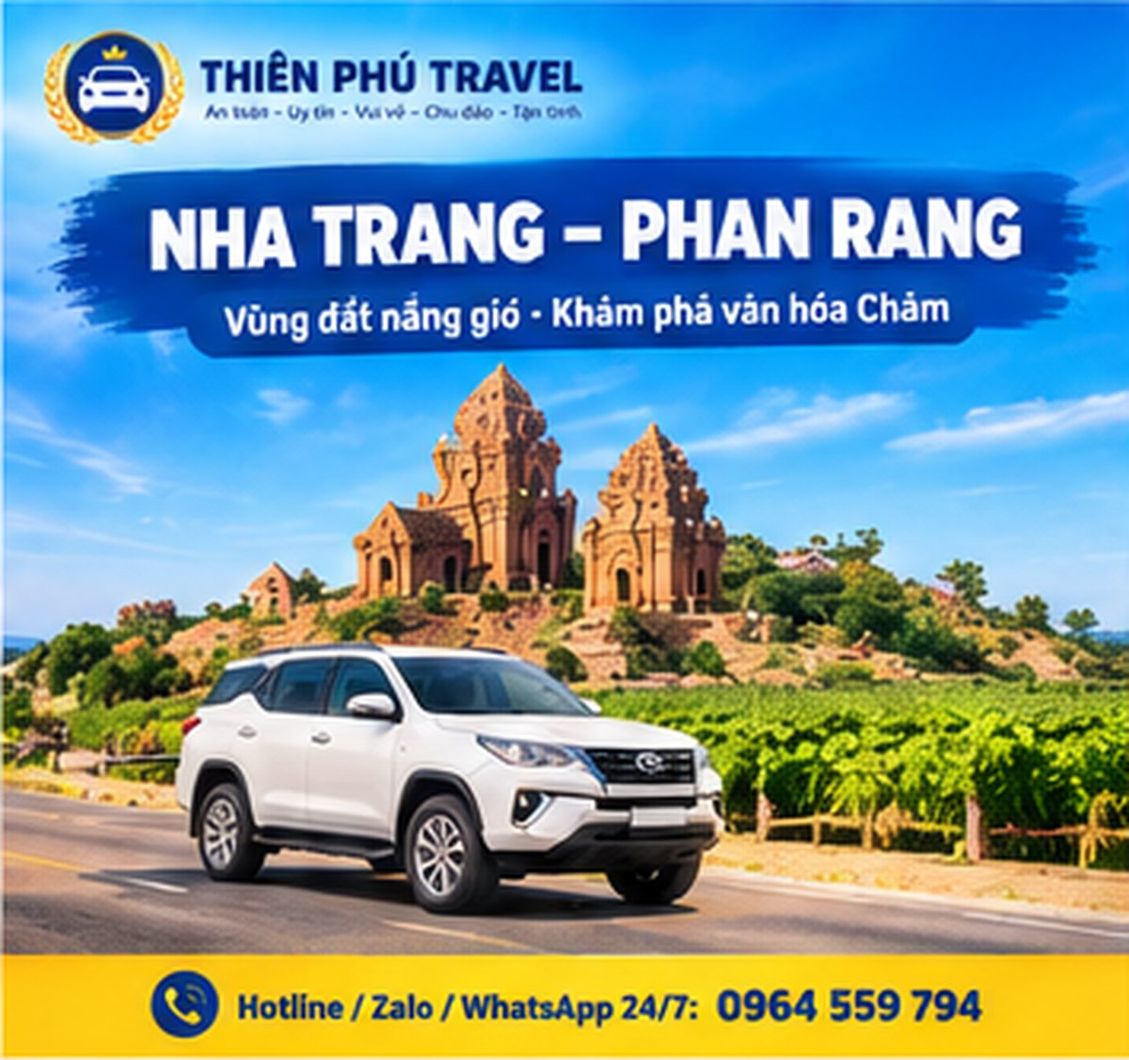
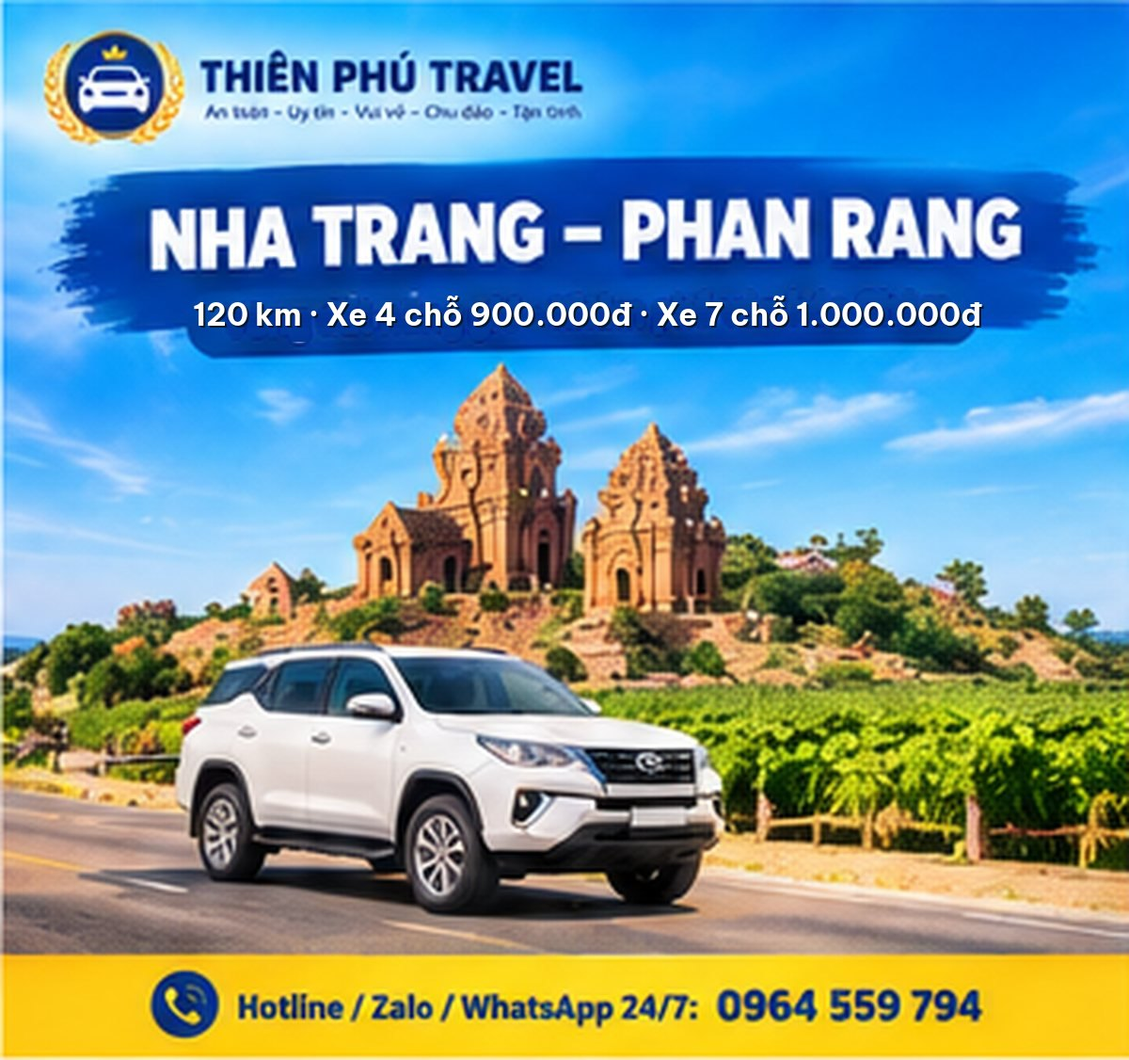
feat: bảng giá mới 10 tuyến, thêm Cam Ranh và Ninh Hòa
Giá theo bảng khách gửi 16/11: Đà Lạt 1.000.000/1.100.000, Phan Rang 900.000/1.000.000,
Tuy Hòa 1.100.000/1.200.000, Phan Thiết 1.500.000/1.600.000, Quy Nhơn 1.700.000/1.800.000,
Vũng Tàu 2.500.000/2.600.000, Sài Gòn 2.600.000/2.700.000; thêm Cam Ranh và Ninh Hòa 450.000/500.000.
Sửa dòng giá in sẵn trên 4 poster (sua-gia-anh.py), ghép 2 poster mới từ nền có sẵn (ghep-tuyen-moi.py),
cập nhật mô tả meta, tài liệu fanpage và prompt ảnh.

Changed region(s): [[0.1542, 0.2798, 0.8942, 0.3419]]

diff --git a/js/content.js b/js/content.js
@@ -46,21 +46,25 @@ window.TP_CONTENT = {
 
   /* Tuyến đường & giá trọn xe (VND). km: quãng đường, img: ảnh minh họa điểm đến. */
   routes: [
-    { id: "nt-dl",  to: "Đà Lạt",            km: "140-150 km", hours: "≈ 3,5 giờ", price: { 4: 900000,  7: 1000000 }, photo: "img/dest-dalat.jpg", img: "img/dest-dalat.svg",     featured: true,
+    { id: "nt-dl",  to: "Đà Lạt",            km: "140-150 km", hours: "≈ 3,5 giờ", price: { 4: 1000000, 7: 1100000 }, photo: "img/dest-dalat.jpg", img: "img/dest-dalat.svg",     featured: true,
       note: "Đường đèo Khánh Lê, tài xế quen tay. Lên tới nơi còn kịp cà phê chiều." },
     { id: "nt-cxr", to: "Sân bay Cam Ranh",  km: "35 km",        hours: "≈ 45 phút", price: { 4: 300000,  7: 350000 },  photo: "img/dest-camranh.jpg", img: "img/dest-camranh.svg",   featured: true,
       note: "Đón trả tận cổng, canh giờ bay. Máy bay trễ vẫn chờ." },
-    { id: "nt-pr",  to: "Phan Rang",         km: "110-130 km", hours: "≈ 2,5 giờ", price: { 4: 850000,  7: 950000 },  photo: "img/dest-phanrang.jpg", img: "img/dest-phanrang.svg",
+    { id: "nt-cr",  to: "Cam Ranh",          km: "55-60 km",   hours: "≈ 1 giờ 15", price: { 4: 450000,  7: 500000 },  photo: "img/dest-camranh-tp.jpg", img: "img/dest-camranh.svg",
+      note: "Bãi Dài, Bình Ba, cảng Cam Ranh và các resort dọc đường ven biển." },
+    { id: "nt-nh",  to: "Ninh Hòa",          km: "30-35 km",   hours: "≈ 45 phút", price: { 4: 450000,  7: 500000 },  photo: "img/dest-ninhhoa.jpg", img: "img/dest-tuyhoa.svg",
+      note: "Dốc Lết, Ninh Vân, suối nước nóng Trường Xuân, nem Ninh Hòa." },
+    { id: "nt-pr",  to: "Phan Rang",         km: "110-130 km", hours: "≈ 2,5 giờ", price: { 4: 900000,  7: 1000000 }, photo: "img/dest-phanrang.jpg", img: "img/dest-phanrang.svg",
       note: "Men theo biển, có thể ghé Vĩnh Hy hoặc vườn nho dọc đường." },
-    { id: "nt-th",  to: "Tuy Hòa",           km: "100-120 km", hours: "≈ 2,5 giờ", price: { 4: 850000,  7: 950000 },  photo: "img/dest-tuyhoa.jpg", img: "img/dest-tuyhoa.svg",
+    { id: "nt-th",  to: "Tuy Hòa",           km: "100-120 km", hours: "≈ 2,5 giờ", price: { 4: 1100000, 7: 1200000 }, photo: "img/dest-tuyhoa.jpg", img: "img/dest-tuyhoa.svg",
       note: "Qua đèo Cả, dừng chụp hình Đại Lãnh nếu bạn muốn." },
-    { id: "nt-pt",  to: "Phan Thiết",        km: "170-180 km", hours: "≈ 3,5 giờ", price: { 4: 1300000, 7: 1500000 }, photo: "img/dest-phanthiet.jpg", img: "img/dest-phanthiet.svg",
+    { id: "nt-pt",  to: "Phan Thiết",        km: "170-180 km", hours: "≈ 3,5 giờ", price: { 4: 1500000, 7: 1600000 }, photo: "img/dest-phanthiet.jpg", img: "img/dest-phanthiet.svg",
       note: "Thẳng tới Mũi Né, đồi cát và làng chài." },
-    { id: "nt-qn",  to: "Quy Nhơn",          km: "240-280 km", hours: "≈ 5 giờ",   price: { 4: 1800000, 7: 2000000 }, photo: "img/dest-quynhon.jpg", img: "img/dest-quynhon.svg",
+    { id: "nt-qn",  to: "Quy Nhơn",          km: "240-280 km", hours: "≈ 5 giờ",   price: { 4: 1700000, 7: 1800000 }, photo: "img/dest-quynhon.jpg", img: "img/dest-quynhon.svg",
       note: "Đường ven biển đẹp, ghé Kỳ Co hoặc Eo Gió trên đường." },
-    { id: "nt-vt",  to: "Vũng Tàu",          km: "320-360 km", hours: "≈ 7 giờ",   price: { 4: 2500000, 7: 2700000 }, photo: "img/dest-vungtau.jpg", img: "img/dest-vungtau.svg",
+    { id: "nt-vt",  to: "Vũng Tàu",          km: "320-360 km", hours: "≈ 7 giờ",   price: { 4: 2500000, 7: 2600000 }, photo: "img/dest-vungtau.jpg", img: "img/dest-vungtau.svg",
       note: "Chạy cao tốc, đi sáng tới nơi kịp ăn trưa hải sản." },
-    { id: "nt-sg",  to: "Sài Gòn",           km: "320-360 km", hours: "≈ 7 giờ",   price: { 4: 2500000, 7: 2700000 }, photo: "img/dest-saigon.jpg", img: "img/dest-saigon.svg",
+    { id: "nt-sg",  to: "Sài Gòn",           km: "320-360 km", hours: "≈ 7 giờ",   price: { 4: 2600000, 7: 2700000 }, photo: "img/dest-saigon.jpg", img: "img/dest-saigon.svg",
       note: "Tuyến dài nhất, khởi hành sớm hoặc chạy đêm theo yêu cầu." }
   ],
 

diff --git a/bang-gia.html b/bang-gia.html
@@ -4,11 +4,11 @@
 <meta charset="utf-8">
 <meta name="viewport" content="width=device-width, initial-scale=1">
 <title>Bảng giá xe dịch vụ Nha Trang đi Đà Lạt, Cam Ranh, Phan Rang, Sài Gòn — Thiên Phú Travel</title>
-<meta name="description" content="Giá trọn xe 4 chỗ và 7 chỗ từ Nha Trang: Đà Lạt 900.000, sân bay Cam Ranh 300.000, Phan Rang 850.000, Phan Thiết 1.300.000, Quy Nhơn 1.800.000, Sài Gòn 2.500.000. Đã gồm xăng, cầu đường, tài xế.">
+<meta name="description" content="Giá trọn xe 4 chỗ và 7 chỗ từ Nha Trang: Đà Lạt 1.000.000, sân bay Cam Ranh 300.000, Cam Ranh và Ninh Hòa 450.000, Phan Rang 900.000, Phan Thiết 1.500.000, Quy Nhơn 1.700.000, Sài Gòn 2.600.000. Đã gồm xăng, cầu đường, tài xế.">
 <meta name="theme-color" content="#F4F7F8">
 <meta property="og:type" content="website">
 <meta property="og:title" content="Bảng giá xe dịch vụ Nha Trang đi Đà Lạt, Cam Ranh, Phan Rang, Sài Gòn — Thiên Phú Travel">
-<meta property="og:description" content="Giá trọn xe 4 chỗ và 7 chỗ từ Nha Trang: Đà Lạt 900.000, sân bay Cam Ranh 300.000, Phan Rang 850.000, Phan Thiết 1.300.000, Quy Nhơn 1.800.000, Sài Gòn 2.500.000. Đã gồm xăng, cầu đường, tài xế.">
+<meta property="og:description" content="Giá trọn xe 4 chỗ và 7 chỗ từ Nha Trang: Đà Lạt 1.000.000, sân bay Cam Ranh 300.000, Cam Ranh và Ninh Hòa 450.000, Phan Rang 900.000, Phan Thiết 1.500.000, Quy Nhơn 1.700.000, Sài Gòn 2.600.000. Đã gồm xăng, cầu đường, tài xế.">
 <meta property="og:image" content="img/hero.jpg">
 <meta property="og:locale" content="vi_VN">
 <link rel="canonical" href="https://phucphucar.com/bang-gia">
@@ -35,7 +35,7 @@
   <div class="wrap phero__grid">
     <div class="phero__copy">
       <p class="tag intro intro--1">Bảng giá</p>
-      <h1 id="pageTitle" class="split" data-split>Giá trọn xe, một chiều, công khai cho tám tuyến.</h1>
+      <h1 id="pageTitle" class="split" data-split>Giá trọn xe, một chiều, công khai cho mười tuyến.</h1>
       <p class="phero__lede intro intro--3">Đây là giá cho cả xe, không phải giá mỗi người. Đã gồm xăng, phí cầu đường và tài xế.</p>
       <div class="phero__actions intro intro--4"><a class="btn btn--sun btn--lg" href="tel:+84964559794"><span>Gọi 0964 559 794</span><span class="btn__ic" aria-hidden="true"><svg viewBox="0 0 20 20"><path d="M5 3h3l1.5 4-2 1.2a9 9 0 0 0 4.3 4.3L13 10.5l4 1.5v3a2 2 0 0 1-2 2A13 13 0 0 1 3 5a2 2 0 0 1 2-2Z" fill="currentColor"/></svg></span></a><a class="btn btn--line btn--lg" href="dat-xe.html"><span>Gửi yêu cầu báo giá</span><span class="btn__ic" aria-hidden="true"><svg viewBox="0 0 16 16" fill="none" stroke="currentColor" stroke-width="1.6" stroke-linecap="round" stroke-linejoin="round"><path d="M4 12 12 4M6 4h6v6"/></svg></span></a></div>
     </div>

diff --git a/index.html b/index.html
@@ -55,7 +55,7 @@
           </fieldset>
         </div>
         <div class="quote__result" aria-live="polite" aria-atomic="true">
-          <p class="quote__price"><span id="qPrice">900.000 ₫</span><small>trọn xe, một chiều</small></p>
+          <p class="quote__price"><span id="qPrice">1.000.000 ₫</span><small>trọn xe, một chiều</small></p>
           <p class="quote__meta" id="qMeta">140-150 km, khoảng 3,5 giờ</p>
         </div>
         <div class="quote__actions">
@@ -132,7 +132,7 @@
 <section class="sec sec--tint" id="diem-den" aria-labelledby="destTitle">
   <div class="wrap">
     <div class="sec__head rv">
-      <h2 id="destTitle" data-split-scroll>Tám điểm đến từ Nha Trang</h2>
+      <h2 id="destTitle" data-split-scroll>Mười điểm đến từ Nha Trang</h2>
       <p>Mỗi thẻ ghi sẵn quãng đường và giá xe 4 chỗ. Bấm vào thẻ để xem giá cả hai loại xe ở ô báo giá.</p>
     </div>
     <div class="dests" id="destGrid"></div>
@@ -213,7 +213,7 @@
 <div id="siteDock"></div>
 
 <script type="application/ld+json">
-{"@context":"https://schema.org","@type":"TaxiService","name":"Thiên Phú Travel","description":"Xe dịch vụ du lịch Nha Trang đi Đà Lạt, sân bay Cam Ranh và các tỉnh miền Đông, miền Nam.","foundingDate":"2011","areaServed":["Nha Trang","Đà Lạt","Cam Ranh","Phan Rang","Tuy Hòa","Phan Thiết","Quy Nhơn","Vũng Tàu","TP. Hồ Chí Minh"],"telephone":"+84964559794","email":"phanson25042102@gmail.com","sameAs":["https://www.facebook.com/share/19cJy7iHVu/?mibextid=wwXIfr"],"openingHours":"Mo-Su 00:00-24:00","priceRange":"300.000₫ - 2.700.000₫"}
+{"@context":"https://schema.org","@type":"TaxiService","name":"Thiên Phú Travel","description":"Xe dịch vụ du lịch Nha Trang đi Đà Lạt, sân bay Cam Ranh và các tỉnh miền Đông, miền Nam.","foundingDate":"2011","areaServed":["Nha Trang","Đà Lạt","Cam Ranh","Ninh Hòa","Phan Rang","Tuy Hòa","Phan Thiết","Quy Nhơn","Vũng Tàu","TP. Hồ Chí Minh"],"telephone":"+84964559794","email":"phanson25042102@gmail.com","sameAs":["https://www.facebook.com/share/19cJy7iHVu/?mibextid=wwXIfr"],"openingHours":"Mo-Su 00:00-24:00","priceRange":"300.000₫ - 2.700.000₫"}
 </script>
 <script src="js/content.js"></script>
 <script src="js/track.js"></script>

diff --git a/scripts/tao-anh/sua-gia-anh.py b/scripts/tao-anh/sua-gia-anh.py
@@ -1,0 +1,94 @@
+#!/usr/bin/env python3
+"""Sửa dòng giá in sẵn trên 4 poster điểm đến do Gemini vẽ.
+Trong vùng ROUGH của mỗi ảnh, tìm chữ sáng (trắng/vàng), vá bằng màu nền
+từng hàng rồi vẽ lại bằng font Be Vietnam Pro.
+Chạy: python3 scripts/tao-anh/sua-gia-anh.py img <thư_mục_ra>"""
+import os, sys
+import numpy as np
+from PIL import Image, ImageDraw, ImageFont, ImageFilter
+
+HERE = os.path.dirname(os.path.abspath(__file__))
+FONT = os.path.join(HERE, "fonts", "BeVietnamPro-Bold.ttf")
+WHITE, SUN, SHADOW = (255, 255, 255), (250, 205, 90), (5, 25, 45, 150)
+NAVY = np.array([10, 61, 85], np.float32)
+PAD = 6            # nới vùng vá quanh chữ
+DILATE = 13        # nở mặt nạ chữ để phủ viền mờ và bóng đổ
+MIN_KEEP = 10      # số pixel nền tối thiểu trong một hàng để lấy màu
+
+# tên ảnh: (vùng tìm chữ x0,y0,x1,y1 ; các đoạn chữ mới (text, màu) ; tùy chọn)
+#   shadow: nền sáng, chữ cũ có bóng tối phải xóa luôn.  maxw: chữ mới rộng tối đa so với chữ cũ.
+JOBS = {
+    "dest-dalat":   ((225, 236, 990, 290), [("140 km · Xe 4 chỗ 1.000.000đ · Xe 7 chỗ 1.100.000đ", WHITE)], {}),
+    "dest-quynhon": ((55, 272, 925, 330),  [("260 km · Xe 4 chỗ 1.700.000đ · Xe 7 chỗ 1.800.000đ", WHITE)], {"shadow": True}),
+    "dest-vungtau": ((215, 200, 965, 240), [("340 km · Xe 4 chỗ ", WHITE), ("2.500.000đ", SUN), (" · Xe 7 chỗ ", WHITE), ("2.600.000đ", SUN)], {"maxw": 0.98}),
+    "dest-saigon":  ((45, 244, 795, 280),  [("340 km · Xe 4 chỗ 2.600.000đ · Xe 7 chỗ 2.700.000đ", WHITE)], {}),
+}
+
+def bright_mask(arr):
+    """Chữ trắng hoặc vàng: đỏ và lục đều cao."""
+    r, g = arr[:, :, 0].astype(int), arr[:, :, 1].astype(int)
+    return (r >= 165) & (g >= 150)
+
+def shadow_mask(arr, rough):
+    """Pixel tối trong vùng (bóng đổ của chữ cũ trên nền sáng)."""
+    x0, y0, x1, y1 = rough
+    lum = arr.astype(int).sum(axis=2) / 3
+    m = np.zeros(lum.shape, bool); m[y0:y1, x0:x1] = lum[y0:y1, x0:x1] < 135
+    return m
+
+def text_box(mask, rough):
+    x0, y0, x1, y1 = rough
+    sub = mask[y0:y1, x0:x1]
+    ys, xs = np.where(sub)
+    if not len(ys): raise SystemExit("không thấy chữ trong " + str(rough))
+    return x0 + xs.min(), y0 + ys.min(), x0 + xs.max() + 1, y0 + ys.max() + 1
+
+def erase(arr, mask, box):
+    xa, ya, xb, yb = box
+    xa, ya = max(0, xa - PAD), max(0, ya - PAD)
+    xb, yb = min(arr.shape[1], xb + PAD), min(arr.shape[0], yb + PAD)
+    m = Image.fromarray((mask[ya:yb, xa:xb] * 255).astype(np.uint8)).filter(ImageFilter.MaxFilter(DILATE))
+    m = np.array(m) > 0
+    region = arr[ya:yb, xa:xb].astype(np.float32)
+    for r in range(region.shape[0]):
+        keep = ~m[r]
+        if keep.sum() < MIN_KEEP:
+            near = [rr for rr in (r - 4, r + 4, r - 8, r + 8) if 0 <= rr < region.shape[0] and (~m[rr]).sum() >= MIN_KEEP]
+            keep = ~m[near[0]] if near else keep
+        color = np.median(region[r][keep], axis=0) if keep.sum() else NAVY
+        region[r][m[r]] = color
+    arr[ya:yb, xa:xb] = region.astype(np.uint8)
+    im = Image.fromarray(arr)
+    im.paste(im.crop((xa, ya, xb, yb)).filter(ImageFilter.GaussianBlur(1.0)), (xa, ya))
+    return np.array(im)
+
+def draw_segments(im, box, segs, maxw=1.10, size=None):
+    xa, ya, xb, yb = box
+    size = size or int((yb - ya) * 1.05)
+    d = ImageDraw.Draw(im, "RGBA")
+    f = ImageFont.truetype(FONT, size)
+    total = lambda f: sum(d.textlength(t, font=f) for t, _ in segs)
+    while total(f) > (xb - xa) * maxw and size > 12:
+        size -= 1; f = ImageFont.truetype(FONT, size)
+    x = (xa + xb) / 2 - total(f) / 2
+    cy = (ya + yb) / 2
+    for t, color in segs:
+        d.text((x + 2, cy + 2), t, font=f, fill=SHADOW, anchor="lm")
+        d.text((x, cy), t, font=f, fill=color, anchor="lm")
+        x += d.textlength(t, font=f)
+
+def main(src, dst):
+    for name, (rough, segs, opt) in JOBS.items():
+        im = Image.open(os.path.join(src, name + ".jpg")).convert("RGB")
+        arr = np.array(im)
+        mask = bright_mask(arr)
+        box = text_box(mask, rough)            # khung chữ sáng, dùng để canh chữ mới
+        if opt.get("shadow"):
+            mask = mask | shadow_mask(arr, rough)
+        im = Image.fromarray(erase(arr, mask, text_box(mask, rough)))
+        draw_segments(im, box, segs, maxw=opt.get("maxw", 1.10))
+        im.save(os.path.join(dst, name + ".jpg"), quality=86, optimize=True, progressive=True)
+        print("ok", name, box)
+
+if __name__ == "__main__":
+    main(sys.argv[1], sys.argv[2])

diff --git a/scripts/tao-anh/compose.py b/scripts/tao-anh/compose.py
@@ -16,14 +16,16 @@ COPY = {
  "car-4":       ((1200, 675), "XE 4 CHỖ", "Sedan máy lạnh · 3 khách · từ 300.000đ"),
  "car-7":       ((1200, 675), "XE 7 CHỖ", "SUV gầm cao · 6 khách · từ 350.000đ"),
  "car-16":      ((1200, 675), "XE 16 CHỖ", "Đoàn đông, hành lý nhiều · liên hệ báo giá"),
- "dest-dalat":    ((1200, 900), "ĐÀ LẠT",          "Nha Trang – Đà Lạt · 140 km · từ 900.000đ"),
+ "dest-dalat":    ((1200, 900), "ĐÀ LẠT",          "Nha Trang – Đà Lạt · 140 km · từ 1.000.000đ"),
  "dest-camranh":  ((1200, 900), "SÂN BAY CAM RANH", "Nha Trang – Cam Ranh · 35 km · từ 300.000đ"),
- "dest-phanrang": ((1200, 900), "PHAN RANG",        "Nha Trang – Phan Rang · 120 km · từ 850.000đ"),
- "dest-tuyhoa":   ((1200, 900), "TUY HÒA",          "Nha Trang – Tuy Hòa · 110 km · từ 850.000đ"),
- "dest-phanthiet":((1200, 900), "PHAN THIẾT",       "Nha Trang – Mũi Né · 175 km · từ 1.300.000đ"),
- "dest-quynhon":  ((1200, 900), "QUY NHƠN",         "Nha Trang – Quy Nhơn · 260 km · từ 2.000.000đ"),
+ "dest-camranh-tp": ((1200, 900), "CAM RANH",       "Nha Trang – Cam Ranh · 60 km · từ 450.000đ"),   # nền: gal-airport
+ "dest-ninhhoa":  ((1200, 900), "NINH HÒA",         "Nha Trang – Ninh Hòa · 35 km · từ 450.000đ"),   # nền: gal-nhatrang
+ "dest-phanrang": ((1200, 900), "PHAN RANG",        "Nha Trang – Phan Rang · 120 km · từ 900.000đ"),
+ "dest-tuyhoa":   ((1200, 900), "TUY HÒA",          "Nha Trang – Tuy Hòa · 110 km · từ 1.100.000đ"),
+ "dest-phanthiet":((1200, 900), "PHAN THIẾT",       "Nha Trang – Mũi Né · 175 km · từ 1.500.000đ"),
+ "dest-quynhon":  ((1200, 900), "QUY NHƠN",         "Nha Trang – Quy Nhơn · 260 km · từ 1.700.000đ"),
  "dest-vungtau":  ((1200, 900), "VŨNG TÀU",         "Nha Trang – Vũng Tàu · 340 km · từ 2.500.000đ"),
- "dest-saigon":   ((1200, 900), "SÀI GÒN",          "Nha Trang – Sài Gòn · 340 km · từ 2.500.000đ"),
+ "dest-saigon":   ((1200, 900), "SÀI GÒN",          "Nha Trang – Sài Gòn · 340 km · từ 2.600.000đ"),
  "gal-fleet":      ((1200, 675), "", ""),
  "gal-airport":    ((1200, 675), "", ""),
  "gal-interior":   ((1200, 675), "", ""),

diff --git a/scripts/tao-trang-con.py b/scripts/tao-trang-con.py
@@ -198,12 +198,12 @@ pages["gioi-thieu.html"] = head("gioi-thieu.html",
 
 pages["bang-gia.html"] = head("bang-gia.html",
     "Bảng giá xe dịch vụ Nha Trang đi Đà Lạt, Cam Ranh, Phan Rang, Sài Gòn — Thiên Phú Travel",
-    "Giá trọn xe 4 chỗ và 7 chỗ từ Nha Trang: Đà Lạt 900.000, sân bay Cam Ranh 300.000, Phan Rang 850.000, Phan Thiết 1.300.000, Quy Nhơn 1.800.000, Sài Gòn 2.500.000. Đã gồm xăng, cầu đường, tài xế.") + f'''
+    "Giá trọn xe 4 chỗ và 7 chỗ từ Nha Trang: Đà Lạt 1.000.000, sân bay Cam Ranh 300.000, Cam Ranh và Ninh Hòa 450.000, Phan Rang 900.000, Phan Thiết 1.500.000, Quy Nhơn 1.700.000, Sài Gòn 2.600.000. Đã gồm xăng, cầu đường, tài xế.") + f'''
 <section class="phero phero--solo" aria-labelledby="pageTitle">
   <div class="wrap phero__grid">
     <div class="phero__copy">
       <p class="tag intro intro--1">Bảng giá</p>
-      <h1 id="pageTitle" class="split" data-split>Giá trọn xe, một chiều, công khai cho tám tuyến.</h1>
+      <h1 id="pageTitle" class="split" data-split>Giá trọn xe, một chiều, công khai cho mười tuyến.</h1>
       <p class="phero__lede intro intro--3">Đây là giá cho cả xe, không phải giá mỗi người. Đã gồm xăng, phí cầu đường và tài xế.</p>
       <div class="phero__actions intro intro--4">{btn_call()}{btn_line("Gửi yêu cầu báo giá", "dat-xe.html")}</div>
     </div>

diff --git a/scripts/tao-anh/ghep-tuyen-moi.py b/scripts/tao-anh/ghep-tuyen-moi.py
@@ -1,0 +1,28 @@
+#!/usr/bin/env python3
+"""Poster cho 2 tuyến thêm sau (Cam Ranh, Ninh Hòa) khi chưa có ảnh nền riêng:
+cắt vùng không chữ từ poster có sẵn rồi ghép logo + tiêu đề + hotline bằng compose.py.
+Có ảnh nền Gemini riêng thì bỏ script này, thêm vào COPY của compose.py như các tuyến khác.
+Chạy: python3 scripts/tao-anh/ghep-tuyen-moi.py img"""
+import os, sys
+from PIL import Image
+sys.path.insert(0, os.path.dirname(os.path.abspath(__file__)))
+import compose
+
+SIZE = (1200, 900)
+# tên ảnh ra: (ảnh nguồn, vùng cắt 4:3 không dính chữ, tiêu đề, dòng phụ)
+JOBS = {
+    "dest-camranh-tp": ("dest-camranh.jpg", (300, 450, 1027, 995), "CAM RANH", "Nha Trang – Cam Ranh · 60 km · từ 450.000đ"),
+    "dest-ninhhoa":    ("dest-vungtau.jpg", (80, 250, 593, 635),   "NINH HÒA", "Nha Trang – Ninh Hòa · 35 km · từ 450.000đ"),
+}
+
+def main(img_dir):
+    for name, (src, box, title, sub) in JOBS.items():
+        im = Image.open(os.path.join(img_dir, src)).convert("RGB").crop(box).resize(SIZE, Image.LANCZOS).convert("RGBA")
+        s = min(SIZE[0] / 1200, SIZE[1] / 675)
+        compose.badge(im, s)
+        compose.footer(im, s, title, sub)
+        im.convert("RGB").save(os.path.join(img_dir, name + ".jpg"), quality=84, optimize=True, progressive=True)
+        print("ok", name)
+
+if __name__ == "__main__":
+    main(sys.argv[1])

diff --git a/scripts/tao-anh/PROMPTS.md b/scripts/tao-anh/PROMPTS.md
@@ -38,7 +38,7 @@ a spotless white Ford Transit 16-seat van parked in front of a modern seaside ho
 ## 5. `dest-dalat` — Đà Lạt (tỷ lệ 4:3)
 
 ```
-a spotless white Toyota Fortuner 7-seat SUV on a pine-lined road arriving in Da Lat Vietnam at dawn, Xuan Huong lake with soft fog, the pink Domaine de Marie church, flower gardens. Make it a finished Vietnamese car-rental advertising poster, like a professional Facebook ad. Layout: top-left a round emblem logo with a golden laurel wreath and a small white car icon, next to it the brand name "THIÊN PHÚ TRAVEL" in bold navy-blue letters and a small tagline "An toàn – Uy tín – Vui vẻ – Chu đáo – Tận tình"; a big bold white uppercase headline with a soft dark shadow: "NHA TRANG – ĐÀ LẠT"; under it a smaller white line: "140 km · Xe 4 chỗ 900.000đ · Xe 7 chỗ 1.100.000đ"; a golden-yellow strip across the bottom with a phone icon and the text "Hotline / Zalo / WhatsApp 24/7: 0964 559 794". Palette: deep navy, turquoise, golden yellow, white text. Glossy, sharp, high-end commercial photography. Spell every word exactly as given with correct Vietnamese diacritics. No other text, no watermark, no license plates, no visible faces.
+a spotless white Toyota Fortuner 7-seat SUV on a pine-lined road arriving in Da Lat Vietnam at dawn, Xuan Huong lake with soft fog, the pink Domaine de Marie church, flower gardens. Make it a finished Vietnamese car-rental advertising poster, like a professional Facebook ad. Layout: top-left a round emblem logo with a golden laurel wreath and a small white car icon, next to it the brand name "THIÊN PHÚ TRAVEL" in bold navy-blue letters and a small tagline "An toàn – Uy tín – Vui vẻ – Chu đáo – Tận tình"; a big bold white uppercase headline with a soft dark shadow: "NHA TRANG – ĐÀ LẠT"; under it a smaller white line: "140 km · Xe 4 chỗ 1.000.000đ · Xe 7 chỗ 1.100.000đ"; a golden-yellow strip across the bottom with a phone icon and the text "Hotline / Zalo / WhatsApp 24/7: 0964 559 794". Palette: deep navy, turquoise, golden yellow, white text. Glossy, sharp, high-end commercial photography. Spell every word exactly as given with correct Vietnamese diacritics. No other text, no watermark, no license plates, no visible faces.
 ```
 
 ## 6. `dest-camranh` — Sân bay Cam Ranh (tỷ lệ 4:3)
@@ -50,37 +50,37 @@ a spotless white Toyota Vios sedan at the drop-off lane of Cam Ranh Internationa
 ## 7. `dest-phanrang` — Phan Rang (tỷ lệ 4:3)
 
 ```
-a spotless white Toyota Fortuner 7-seat SUV on a road below the Po Klong Garai red-brick Cham towers on a sunlit hill in Phan Rang Vietnam, vineyards, deep blue sky. Make it a finished Vietnamese car-rental advertising poster, like a professional Facebook ad. Layout: top-left a round emblem logo with a golden laurel wreath and a small white car icon, next to it the brand name "THIÊN PHÚ TRAVEL" in bold navy-blue letters and a small tagline "An toàn – Uy tín – Vui vẻ – Chu đáo – Tận tình"; a big bold white uppercase headline with a soft dark shadow: "NHA TRANG – PHAN RANG"; under it a smaller white line: "120 km · Xe 4 chỗ 850.000đ · Xe 7 chỗ 950.000đ"; a golden-yellow strip across the bottom with a phone icon and the text "Hotline / Zalo / WhatsApp 24/7: 0964 559 794". Palette: deep navy, turquoise, golden yellow, white text. Glossy, sharp, high-end commercial photography. Spell every word exactly as given with correct Vietnamese diacritics. No other text, no watermark, no license plates, no visible faces.
+a spotless white Toyota Fortuner 7-seat SUV on a road below the Po Klong Garai red-brick Cham towers on a sunlit hill in Phan Rang Vietnam, vineyards, deep blue sky. Make it a finished Vietnamese car-rental advertising poster, like a professional Facebook ad. Layout: top-left a round emblem logo with a golden laurel wreath and a small white car icon, next to it the brand name "THIÊN PHÚ TRAVEL" in bold navy-blue letters and a small tagline "An toàn – Uy tín – Vui vẻ – Chu đáo – Tận tình"; a big bold white uppercase headline with a soft dark shadow: "NHA TRANG – PHAN RANG"; under it a smaller white line: "120 km · Xe 4 chỗ 900.000đ · Xe 7 chỗ 1.000.000đ"; a golden-yellow strip across the bottom with a phone icon and the text "Hotline / Zalo / WhatsApp 24/7: 0964 559 794". Palette: deep navy, turquoise, golden yellow, white text. Glossy, sharp, high-end commercial photography. Spell every word exactly as given with correct Vietnamese diacritics. No other text, no watermark, no license plates, no visible faces.
 ```
 
 ## 8. `dest-tuyhoa` — Tuy Hòa (tỷ lệ 4:3)
 
 ```
-a spotless white Toyota Vios sedan on a coastal road near Tuy Hoa Vietnam, Nhan Tower (ancient Cham tower) on a green hill, river bridge and the sea. Make it a finished Vietnamese car-rental advertising poster, like a professional Facebook ad. Layout: top-left a round emblem logo with a golden laurel wreath and a small white car icon, next to it the brand name "THIÊN PHÚ TRAVEL" in bold navy-blue letters and a small tagline "An toàn – Uy tín – Vui vẻ – Chu đáo – Tận tình"; a big bold white uppercase headline with a soft dark shadow: "NHA TRANG – TUY HÒA"; under it a smaller white line: "110 km · Xe 4 chỗ 850.000đ · Xe 7 chỗ 950.000đ"; a golden-yellow strip across the bottom with a phone icon and the text "Hotline / Zalo / WhatsApp 24/7: 0964 559 794". Palette: deep navy, turquoise, golden yellow, white text. Glossy, sharp, high-end commercial photography. Spell every word exactly as given with correct Vietnamese diacritics. No other text, no watermark, no license plates, no visible faces.
+a spotless white Toyota Vios sedan on a coastal road near Tuy Hoa Vietnam, Nhan Tower (ancient Cham tower) on a green hill, river bridge and the sea. Make it a finished Vietnamese car-rental advertising poster, like a professional Facebook ad. Layout: top-left a round emblem logo with a golden laurel wreath and a small white car icon, next to it the brand name "THIÊN PHÚ TRAVEL" in bold navy-blue letters and a small tagline "An toàn – Uy tín – Vui vẻ – Chu đáo – Tận tình"; a big bold white uppercase headline with a soft dark shadow: "NHA TRANG – TUY HÒA"; under it a smaller white line: "110 km · Xe 4 chỗ 1.100.000đ · Xe 7 chỗ 1.200.000đ"; a golden-yellow strip across the bottom with a phone icon and the text "Hotline / Zalo / WhatsApp 24/7: 0964 559 794". Palette: deep navy, turquoise, golden yellow, white text. Glossy, sharp, high-end commercial photography. Spell every word exactly as given with correct Vietnamese diacritics. No other text, no watermark, no license plates, no visible faces.
 ```
 
 ## 9. `dest-phanthiet` — Phan Thiết (tỷ lệ 4:3)
 
 ```
-a spotless white Toyota Fortuner 7-seat SUV on a road beside the red sand dunes of Mui Ne, Phan Thiet Vietnam at sunset, round basket boats on the shore. Make it a finished Vietnamese car-rental advertising poster, like a professional Facebook ad. Layout: top-left a round emblem logo with a golden laurel wreath and a small white car icon, next to it the brand name "THIÊN PHÚ TRAVEL" in bold navy-blue letters and a small tagline "An toàn – Uy tín – Vui vẻ – Chu đáo – Tận tình"; a big bold white uppercase headline with a soft dark shadow: "NHA TRANG – PHAN THIẾT MŨI NÉ"; under it a smaller white line: "175 km · Xe 4 chỗ 1.300.000đ · Xe 7 chỗ 1.500.000đ"; a golden-yellow strip across the bottom with a phone icon and the text "Hotline / Zalo / WhatsApp 24/7: 0964 559 794". Palette: deep navy, turquoise, golden yellow, white text. Glossy, sharp, high-end commercial photography. Spell every word exactly as given with correct Vietnamese diacritics. No other text, no watermark, no license plates, no visible faces.
+a spotless white Toyota Fortuner 7-seat SUV on a road beside the red sand dunes of Mui Ne, Phan Thiet Vietnam at sunset, round basket boats on the shore. Make it a finished Vietnamese car-rental advertising poster, like a professional Facebook ad. Layout: top-left a round emblem logo with a golden laurel wreath and a small white car icon, next to it the brand name "THIÊN PHÚ TRAVEL" in bold navy-blue letters and a small tagline "An toàn – Uy tín – Vui vẻ – Chu đáo – Tận tình"; a big bold white uppercase headline with a soft dark shadow: "NHA TRANG – PHAN THIẾT MŨI NÉ"; under it a smaller white line: "175 km · Xe 4 chỗ 1.500.000đ · Xe 7 chỗ 1.600.000đ"; a golden-yellow strip across the bottom with a phone icon and the text "Hotline / Zalo / WhatsApp 24/7: 0964 559 794". Palette: deep navy, turquoise, golden yellow, white text. Glossy, sharp, high-end commercial photography. Spell every word exactly as given with correct Vietnamese diacritics. No other text, no watermark, no license plates, no visible faces.
 ```
 
 ## 10. `dest-quynhon` — Quy Nhơn (tỷ lệ 4:3)
 
 ```
-a spotless white Toyota Vios sedan on a cliffside road above Eo Gio and Ky Co beach near Quy Nhon Vietnam, rocky coast, white sand cove, emerald sea. Make it a finished Vietnamese car-rental advertising poster, like a professional Facebook ad. Layout: top-left a round emblem logo with a golden laurel wreath and a small white car icon, next to it the brand name "THIÊN PHÚ TRAVEL" in bold navy-blue letters and a small tagline "An toàn – Uy tín – Vui vẻ – Chu đáo – Tận tình"; a big bold white uppercase headline with a soft dark shadow: "NHA TRANG – QUY NHƠN"; under it a smaller white line: "260 km · Xe 4 chỗ 2.000.000đ · Xe 7 chỗ 2.200.000đ"; a golden-yellow strip across the bottom with a phone icon and the text "Hotline / Zalo / WhatsApp 24/7: 0964 559 794". Palette: deep navy, turquoise, golden yellow, white text. Glossy, sharp, high-end commercial photography. Spell every word exactly as given with correct Vietnamese diacritics. No other text, no watermark, no license plates, no visible faces.
+a spotless white Toyota Vios sedan on a cliffside road above Eo Gio and Ky Co beach near Quy Nhon Vietnam, rocky coast, white sand cove, emerald sea. Make it a finished Vietnamese car-rental advertising poster, like a professional Facebook ad. Layout: top-left a round emblem logo with a golden laurel wreath and a small white car icon, next to it the brand name "THIÊN PHÚ TRAVEL" in bold navy-blue letters and a small tagline "An toàn – Uy tín – Vui vẻ – Chu đáo – Tận tình"; a big bold white uppercase headline with a soft dark shadow: "NHA TRANG – QUY NHƠN"; under it a smaller white line: "260 km · Xe 4 chỗ 1.700.000đ · Xe 7 chỗ 1.800.000đ"; a golden-yellow strip across the bottom with a phone icon and the text "Hotline / Zalo / WhatsApp 24/7: 0964 559 794". Palette: deep navy, turquoise, golden yellow, white text. Glossy, sharp, high-end commercial photography. Spell every word exactly as given with correct Vietnamese diacritics. No other text, no watermark, no license plates, no visible faces.
 ```
 
 ## 11. `dest-vungtau` — Vũng Tàu (tỷ lệ 4:3)
 
 ```
-a spotless white Toyota Fortuner 7-seat SUV on the beach boulevard of Vung Tau Vietnam, the Christ of Vung Tau statue with open arms on the mountain above, lighthouse, long beach. Make it a finished Vietnamese car-rental advertising poster, like a professional Facebook ad. Layout: top-left a round emblem logo with a golden laurel wreath and a small white car icon, next to it the brand name "THIÊN PHÚ TRAVEL" in bold navy-blue letters and a small tagline "An toàn – Uy tín – Vui vẻ – Chu đáo – Tận tình"; a big bold white uppercase headline with a soft dark shadow: "NHA TRANG – VŨNG TÀU"; under it a smaller white line: "340 km · Xe 4 chỗ 2.500.000đ · Xe 7 chỗ 2.700.000đ"; a golden-yellow strip across the bottom with a phone icon and the text "Hotline / Zalo / WhatsApp 24/7: 0964 559 794". Palette: deep navy, turquoise, golden yellow, white text. Glossy, sharp, high-end commercial photography. Spell every word exactly as given with correct Vietnamese diacritics. No other text, no watermark, no license plates, no visible faces.
+a spotless white Toyota Fortuner 7-seat SUV on the beach boulevard of Vung Tau Vietnam, the Christ of Vung Tau statue with open arms on the mountain above, lighthouse, long beach. Make it a finished Vietnamese car-rental advertising poster, like a professional Facebook ad. Layout: top-left a round emblem logo with a golden laurel wreath and a small white car icon, next to it the brand name "THIÊN PHÚ TRAVEL" in bold navy-blue letters and a small tagline "An toàn – Uy tín – Vui vẻ – Chu đáo – Tận tình"; a big bold white uppercase headline with a soft dark shadow: "NHA TRANG – VŨNG TÀU"; under it a smaller white line: "340 km · Xe 4 chỗ 2.500.000đ · Xe 7 chỗ 2.600.000đ"; a golden-yellow strip across the bottom with a phone icon and the text "Hotline / Zalo / WhatsApp 24/7: 0964 559 794". Palette: deep navy, turquoise, golden yellow, white text. Glossy, sharp, high-end commercial photography. Spell every word exactly as given with correct Vietnamese diacritics. No other text, no watermark, no license plates, no visible faces.
 ```
 
 ## 12. `dest-saigon` — Sài Gòn (tỷ lệ 4:3)
 
 ```
-a spotless white Toyota Fortuner 7-seat SUV on a riverside road with the Ho Chi Minh City skyline at blue hour, Landmark 81 and Bitexco towers lit up, reflections on the Saigon river. Make it a finished Vietnamese car-rental advertising poster, like a professional Facebook ad. Layout: top-left a round emblem logo with a golden laurel wreath and a small white car icon, next to it the brand name "THIÊN PHÚ TRAVEL" in bold navy-blue letters and a small tagline "An toàn – Uy tín – Vui vẻ – Chu đáo – Tận tình"; a big bold white uppercase headline with a soft dark shadow: "NHA TRANG – SÀI GÒN"; under it a smaller white line: "340 km · Xe 4 chỗ 2.500.000đ · Xe 7 chỗ 2.700.000đ"; a golden-yellow strip across the bottom with a phone icon and the text "Hotline / Zalo / WhatsApp 24/7: 0964 559 794". Palette: deep navy, turquoise, golden yellow, white text. Glossy, sharp, high-end commercial photography. Spell every word exactly as given with correct Vietnamese diacritics. No other text, no watermark, no license plates, no visible faces.
+a spotless white Toyota Fortuner 7-seat SUV on a riverside road with the Ho Chi Minh City skyline at blue hour, Landmark 81 and Bitexco towers lit up, reflections on the Saigon river. Make it a finished Vietnamese car-rental advertising poster, like a professional Facebook ad. Layout: top-left a round emblem logo with a golden laurel wreath and a small white car icon, next to it the brand name "THIÊN PHÚ TRAVEL" in bold navy-blue letters and a small tagline "An toàn – Uy tín – Vui vẻ – Chu đáo – Tận tình"; a big bold white uppercase headline with a soft dark shadow: "NHA TRANG – SÀI GÒN"; under it a smaller white line: "340 km · Xe 4 chỗ 2.600.000đ · Xe 7 chỗ 2.700.000đ"; a golden-yellow strip across the bottom with a phone icon and the text "Hotline / Zalo / WhatsApp 24/7: 0964 559 794". Palette: deep navy, turquoise, golden yellow, white text. Glossy, sharp, high-end commercial photography. Spell every word exactly as given with correct Vietnamese diacritics. No other text, no watermark, no license plates, no visible faces.
 ```
 
 ## 13. `gal-fleet` — Đội xe (tỷ lệ 16:9)

diff --git a/fb/HUONG-DAN-TU-CHAY-QUANG-CAO.md b/fb/HUONG-DAN-TU-CHAY-QUANG-CAO.md
@@ -85,9 +85,9 @@ Mỗi lúc chỉ nên chạy 1–2 quảng cáo để dễ so sánh.
 
 ### Quảng cáo 1 — Nha Trang đi Đà Lạt (chạy đầu tiên)
 
-🌸 NHA TRANG ĐI ĐÀ LẠT – XE RIÊNG CHỈ TỪ 900.000₫
+🌸 NHA TRANG ĐI ĐÀ LẠT – XE RIÊNG CHỈ TỪ 1.000.000₫
 
-Xe 4 chỗ 900.000₫, xe 7 chỗ 1.000.000₫ trọn gói, đã gồm xăng và cầu đường. Không ghép khách, không phụ thu.
+Xe 4 chỗ 1.000.000₫, xe 7 chỗ 1.100.000₫ trọn gói, đã gồm xăng và cầu đường. Không ghép khách, không phụ thu.
 
 Tài xế quen đèo Khánh Lê, 3,5 giờ tới nơi. Đón tận khách sạn, dừng chụp hình dọc đường tùy bạn.
 
@@ -118,6 +118,6 @@ Chào bạn! Thiên Phú Travel đây. Bạn cho mình biết: tuyến đi, ngà
 
 ### Mẫu trả lời khách
 
-- Khách hỏi giá: "Dạ tuyến [Nha Trang – Đà Lạt] xe [4 chỗ] trọn gói [900.000₫], đã gồm xăng cầu đường, đón tận nơi. Anh/chị đi ngày nào để mình giữ xe ạ?"
-- Khách chốt: "Dạ mình xác nhận: [ngày giờ], đón tại [địa chỉ], xe [4 chỗ], giá [900.000₫]. Tài xế sẽ gọi anh/chị trước 1 tiếng. Cảm ơn anh/chị!"
-- Khách im lặng sau 1 ngày: "Dạ anh/chị còn cần xe tuyến [Đà Lạt] không ạ? Thiên Phú vẫn giữ giá [900.000₫], nhắn mình bất cứ lúc nào nhé."
+- Khách hỏi giá: "Dạ tuyến [Nha Trang – Đà Lạt] xe [4 chỗ] trọn gói [1.000.000₫], đã gồm xăng cầu đường, đón tận nơi. Anh/chị đi ngày nào để mình giữ xe ạ?"
+- Khách chốt: "Dạ mình xác nhận: [ngày giờ], đón tại [địa chỉ], xe [4 chỗ], giá [1.000.000₫]. Tài xế sẽ gọi anh/chị trước 1 tiếng. Cảm ơn anh/chị!"
+- Khách im lặng sau 1 ngày: "Dạ anh/chị còn cần xe tuyến [Đà Lạt] không ạ? Thiên Phú vẫn giữ giá [1.000.000₫], nhắn mình bất cứ lúc nào nhé."

diff --git a/scripts/tao-anh/README.md b/scripts/tao-anh/README.md
@@ -34,5 +34,5 @@ python3 scripts/tao-anh/compose.py out-sd img
 |---|---|---|
 | hero.jpg | Banner đầu trang | 21:9 |
 | car-4.jpg, car-7.jpg, car-16.jpg | Thẻ dòng xe | 16:9 |
-| dest-*.jpg (8 ảnh) | Thẻ điểm đến | 4:3 |
+| dest-*.jpg (10 ảnh) | Thẻ điểm đến | 4:3 |
 | gal-fleet, gal-airport, gal-interior, gal-dalat-road | Mục "Uy tín và an toàn" | 16:9 |
